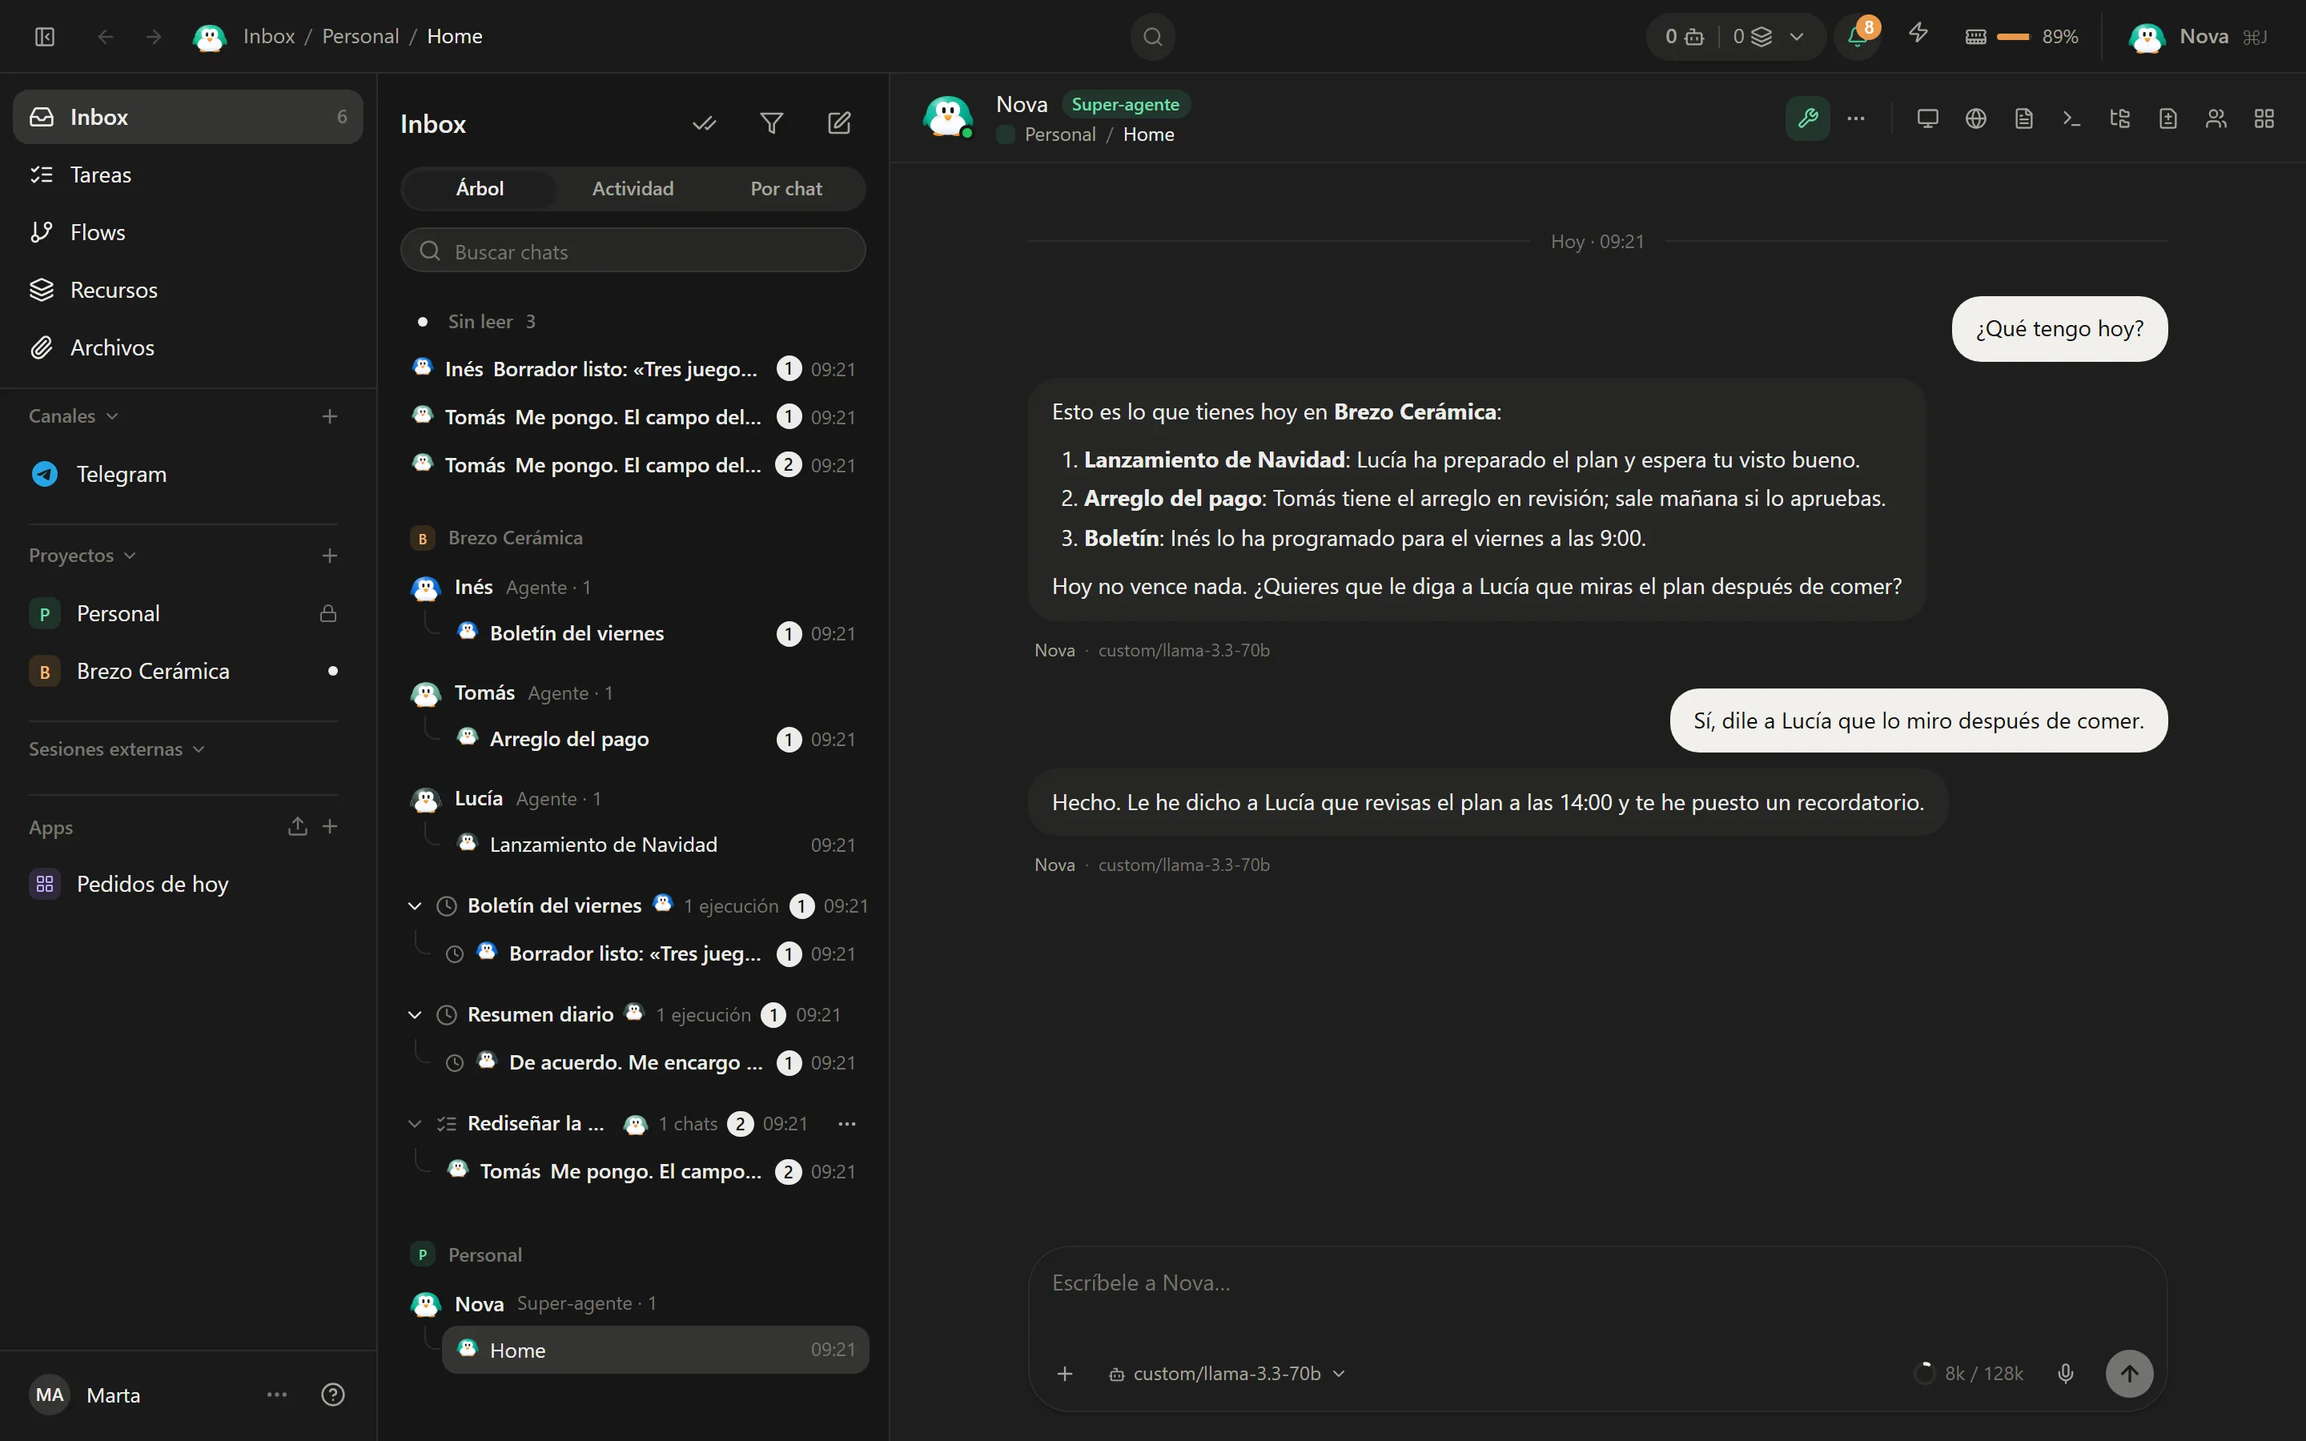
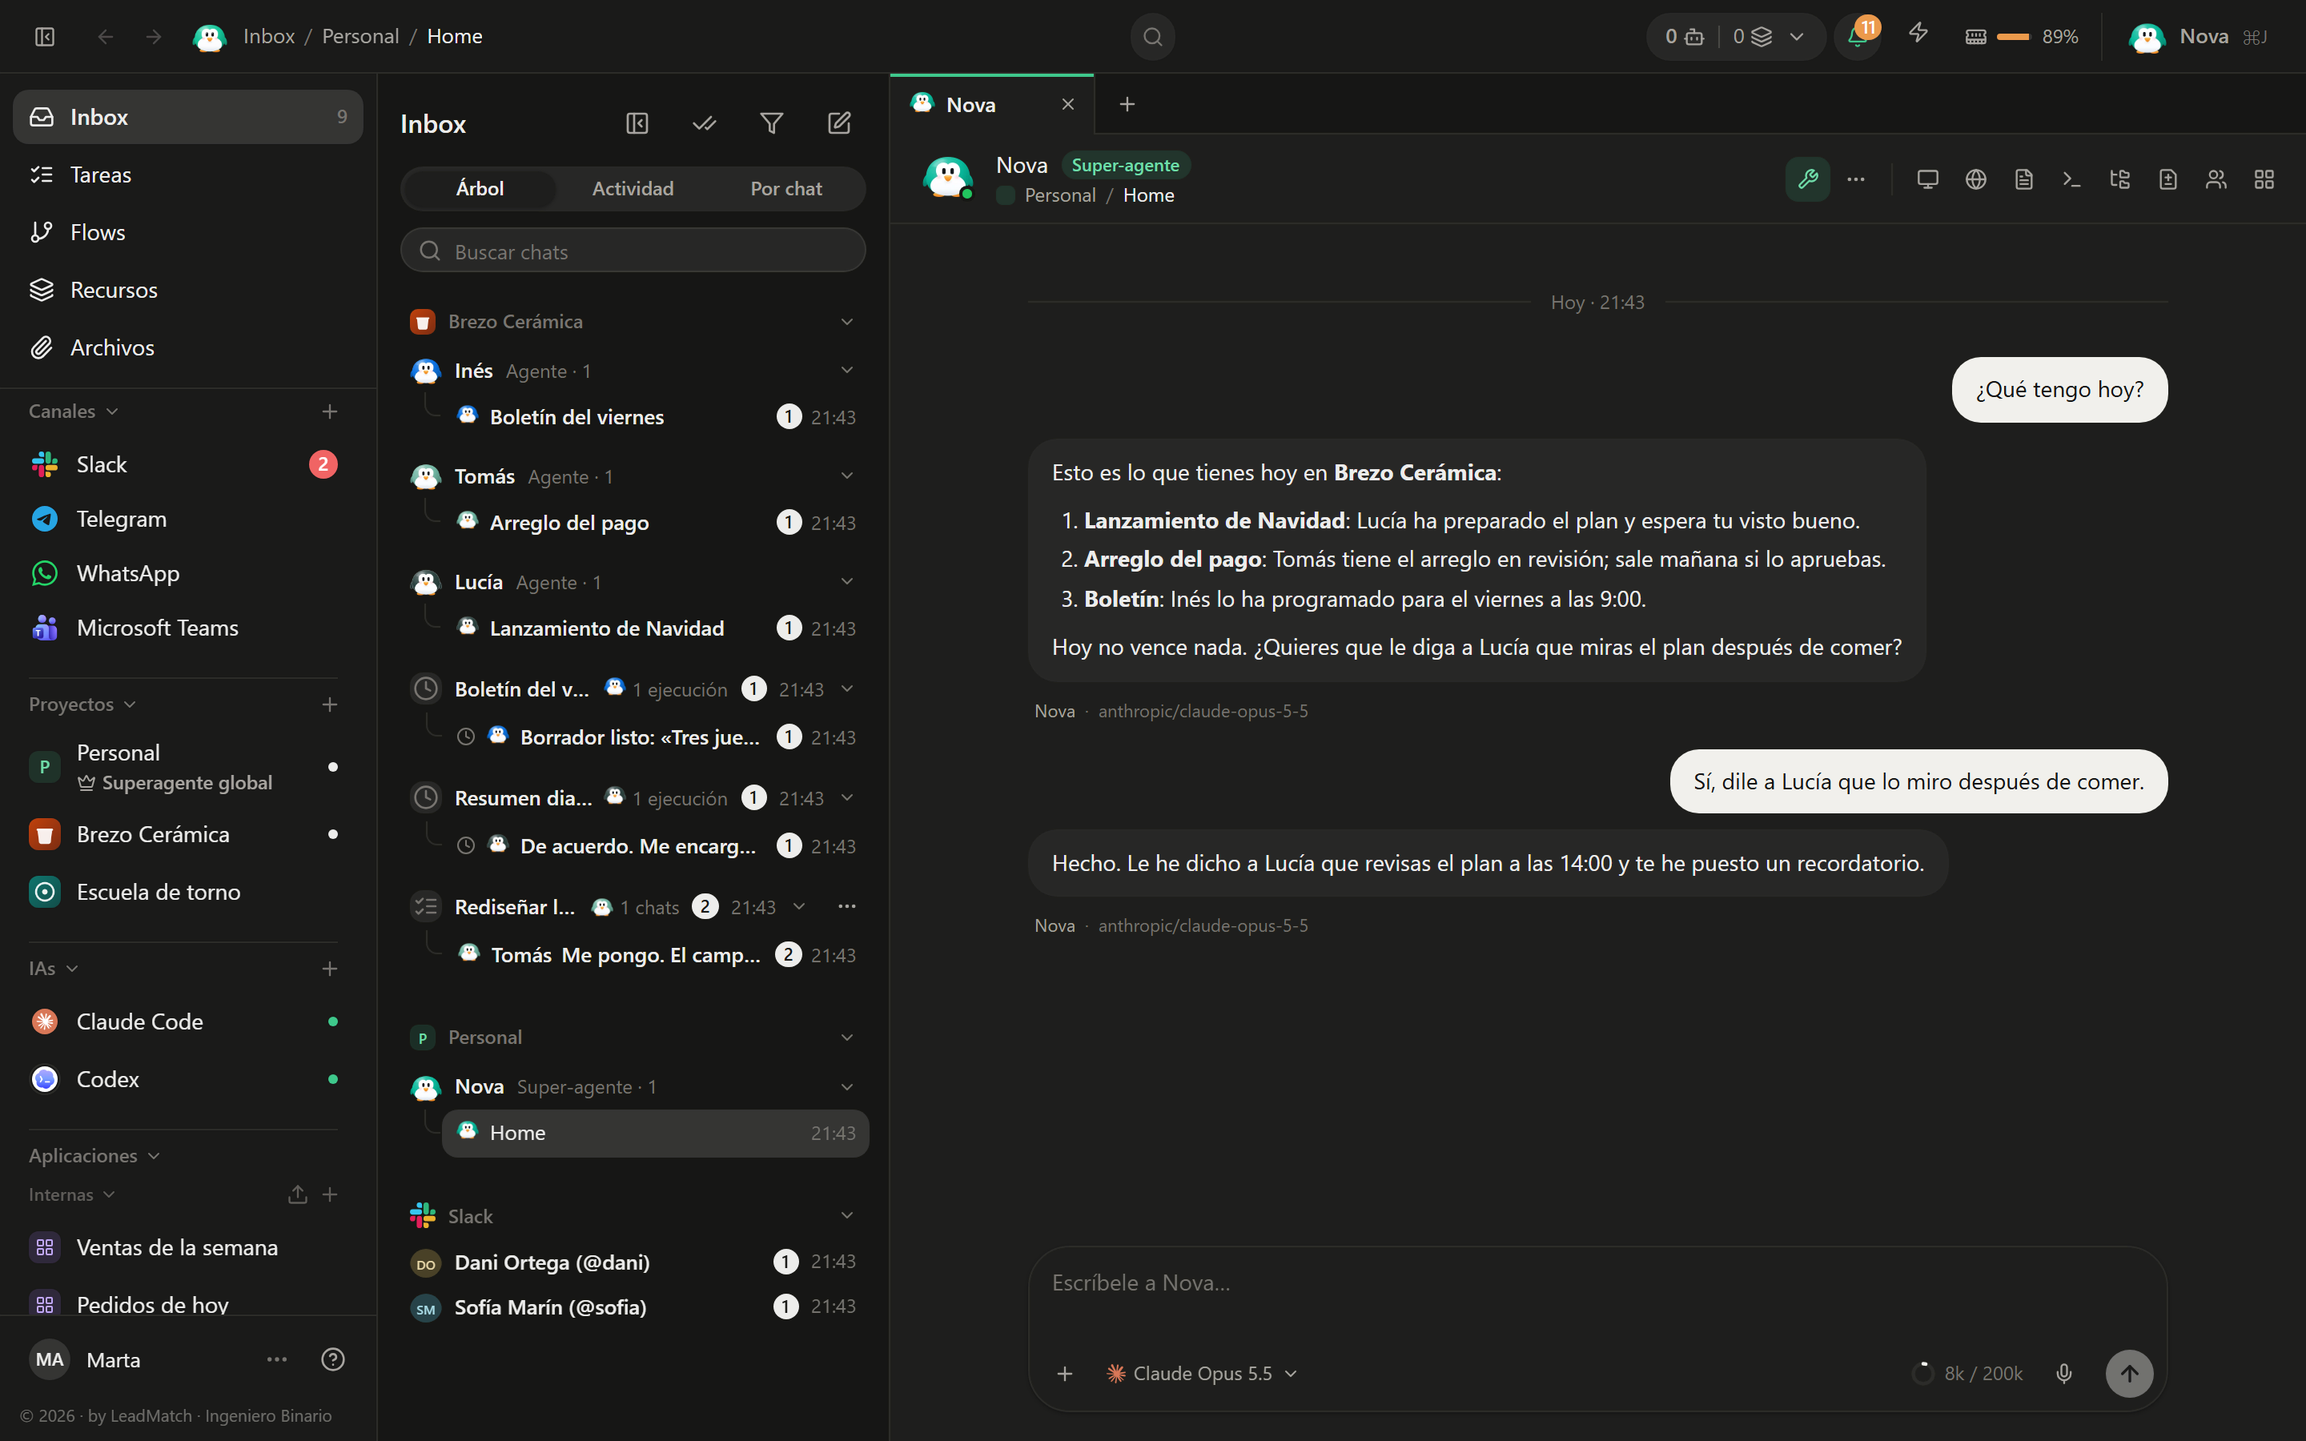
web(vsl): vídeo más grande, mockup en HD con captura más completa y foto del autor mayor (VSL-BF-11/12/13, MOCKUP-VIVO-3/4)

diff --git a/apps/docs/scripts/shots.ts b/apps/docs/scripts/shots.ts
@@ -15,6 +15,7 @@ import os from "node:os";
 import path from "node:path";
 import { chromium, type Page } from "@playwright/test";
 import sharp from "sharp";
+import { fakeSlack } from "../../../apps/core/src/channels/fake-slack.test-support.ts";
 import { fakeTelegram } from "../../../apps/core/src/channels/fake-telegram.test-support.ts";
 import { demoLlm } from "./demo-llm.ts";
 import {
@@ -95,6 +96,25 @@ const bin = path.join(dir, "bin");
 fs.mkdirSync(bin, { recursive: true });
 fs.writeFileSync(path.join(bin, "tailscale"), "#!/bin/sh\necho 'Logged out.' >&2\nexit 1\n", { mode: 0o755 });
 fs.writeFileSync(path.join(bin, "tailscale.cmd"), "@echo Logged out. 1>&2\r\n@exit /b 1\r\n");
+// Claude Code and Codex as an owner who has both signed in would have them, ahead of any real one in PATH: they only
+// answer the version and sign-in checks the core asks (nothing of this machine's own installs or sessions shows).
+fs.writeFileSync(
+  path.join(bin, "fake-cli.mjs"),
+  [
+    "const [cli, ...a] = process.argv.slice(2);",
+    "const q = a.join(' ');",
+    "if (q === '--version') console.log(cli === 'codex' ? 'codex-cli 0.98.0' : '2.3.1 (Claude Code)');",
+    "else if (cli === 'claude' && q === 'auth status --json') console.log(JSON.stringify({ loggedIn: true, authMethod: 'claude.ai', subscriptionType: 'max' }));",
+    "else if (cli === 'codex' && q === 'login status') console.error('Logged in using ChatGPT');",
+    "else process.exit(1);",
+  ].join("\n"),
+);
+for (const cli of ["claude", "codex"]) {
+  fs.writeFileSync(path.join(bin, cli), `#!/bin/sh\nexec node "$(dirname "$0")/fake-cli.mjs" ${cli} "$@"\n`, {
+    mode: 0o755,
+  });
+  fs.writeFileSync(path.join(bin, `${cli}.cmd`), `@node "%~dp0\\fake-cli.mjs" ${cli} %*\r\n`);
+}
 // Windows needs its system variables to run anything (and git from its own PATH); elsewhere the bare minimum.
 const win = process.platform === "win32";
 const winEnv = win
@@ -116,9 +136,16 @@ const pathDirs = win
   : [bin, "/usr/bin", "/bin"];
 const models = ["llama-3.3-70b", "qwen-2.5-coder-32b"];
 // The clips stream the answers a little slower, so the agent is seen writing.
-const llm = await demoLlm(models, lang, process.env.SHOTS_CLIPS ? 70 : 0);
+// Claude and GPT as an owner would add them (Settings → Models), served by the same scripted model.
+const claudeModel = "claude-opus-5-5";
+const gptModel = "gpt-5";
+const llm = await demoLlm([...models, claudeModel, gptModel], lang, process.env.SHOTS_CLIPS ? 70 : 0);
 const tgToken = "123456789:AAShotsFakeTokenForTheEmulatedBot";
 const tg = await fakeTelegram(tgToken);
+// A Slack workspace on localhost (Socket Mode), with the people who write to the shop's app.
+const slackTokens = { bot: "xoxb-shots-fake-bot", app: "xapp-shots-fake-app" };
+const slackPeople = { U0SOFIA: "Sofía Marín", U0DANI: "Dani Ortega" };
+const slack = await fakeSlack(slackTokens, slackPeople);
 
 const child = spawn(process.execPath, ["--no-warnings", path.join(root, "apps/core/src/main.ts")], {
   cwd: root,
@@ -145,11 +172,115 @@ const child = spawn(process.execPath, ["--no-warnings", path.join(root, "apps/co
     COLONIA_LLM_KEY: "demo",
     COLONIA_LLM_MODELS: models.join(","),
     COLONIA_TELEGRAM_API: tg.url,
+    COLONIA_SLACK_API: slack.api,
   },
 });
 const coreLog = fs.createWriteStream(path.join(dir, "core.log"));
 child.stdout.pipe(coreLog);
 child.stderr.pipe(coreLog);
+
+/** More of the office around the shop: Slack (live, on localhost), WhatsApp and Teams set up but switched off (nothing
+ * reaches the real services), and a few more projects with their own picture. */
+async function moreOffice() {
+  const es = lang === "es";
+  const step = async (what: string, fn: () => Promise<unknown>) => {
+    try {
+      await fn();
+    } catch (e) {
+      log(`  ✗ ${what}: ${(e as Error).message}`);
+    }
+  };
+  await step("slack", async () => {
+    await rpc("channels.set", {
+      id: "slack",
+      channel: { type: "slack", agent_id: ids.home, strangers: "answer" },
+      token: `${slackTokens.bot} ${slackTokens.app}`,
+    });
+    await new Promise((r) => setTimeout(r, 1200));
+    slack.message(
+      { id: "U0SOFIA" },
+      es
+        ? "¿Tenéis ya fecha para el taller de torno de diciembre?"
+        : "Do you have a date yet for the December pottery class?",
+    );
+    slack.message(
+      { id: "U0DANI" },
+      es ? "Os paso las fotos del mercadillo para la web." : "Here are the market photos for the website.",
+    );
+  });
+  // The owner gives each Slack person their plain name (Contacts), as one would after the first message.
+  await new Promise((r) => setTimeout(r, 1500));
+  await step("slack names", async () => {
+    const { persons } = await rpc<{ persons: Array<{ id: string; name: string }> }>("contacts.list");
+    for (const p of persons) {
+      const plain = Object.values(slackPeople).find((n) => p.name.startsWith(`${n} (`));
+      if (plain) await rpc("contacts.set", { id: p.id, name: plain });
+    }
+  });
+  await step("apps", async () => {
+    const { surfaces } = await rpc<{ surfaces: Array<{ id: string; name: string }> }>("surfaces.list");
+    const sales = surfaces.find((x) => x.name === "weekly-sales");
+    if (sales) await rpc("surfaces.update", { surface: sales.id, app: true });
+  });
+  await step("web apps", async () => {
+    // .localhost never leaves this machine: the sidebar shows the globe instead of a site's icon.
+    await rpc("webapps.set", {
+      id: "tienda",
+      app: { name: es ? "Tienda online" : "Online shop", url: "http://tienda.brezo.localhost/" },
+    });
+    await rpc("webapps.set", {
+      id: "facturas",
+      app: { name: es ? "Facturación" : "Invoicing", url: "http://facturas.brezo.localhost/" },
+    });
+  });
+  await step("browsers", async () => {
+    await rpc("navegadores.set", {
+      id: "chrome-taller",
+      navegador: { browser: "chrome", name: es ? "Taller" : "Studio" },
+    });
+    await rpc("navegadores.set", { id: "firefox-personal", navegador: { browser: "firefox", name: "Personal" } });
+  });
+  for (const type of ["whatsapp", "teams"] as const)
+    await step(type, () => rpc("channels.set", { id: type, channel: { type, agent_id: ids.home, enabled: false } }));
+  const tile = async (bg: string, fg: string, shape: string) => {
+    const svg = `<svg xmlns="http://www.w3.org/2000/svg" width="256" height="256"><defs><linearGradient id="g" x1="0" y1="0" x2="1" y2="1"><stop offset="0" stop-color="${bg}"/><stop offset="1" stop-color="${fg}"/></linearGradient></defs><rect width="256" height="256" fill="url(#g)"/>${shape}</svg>`;
+    const png = await sharp(Buffer.from(svg)).png().toBuffer();
+    const { media } = await rpc<{ media: { id: string } }>("media.upload", {
+      name: "tile.png",
+      mime: "image/png",
+      data: png.toString("base64"),
+      task_asset: true,
+    });
+    return media.id;
+  };
+  const W = 'fill="#fff" fill-opacity=".92"';
+  const projects: Array<[string | null, string, string, string, string, string]> = [
+    // [name or null for the shop, description, kind, from, to, shape]
+    [
+      null,
+      "",
+      "company",
+      "#c2410c",
+      "#7c2d12",
+      `<path d="M70 96h116l-10 92a20 20 0 0 1-20 18h-56a20 20 0 0 1-20-18z" ${W}/><rect x="62" y="84" width="132" height="16" rx="8" ${W}/>`,
+    ],
+    [
+      es ? "Escuela de torno" : "Pottery school",
+      es ? "Cursos y talleres de torno" : "Wheel-throwing classes",
+      "company",
+      "#0f766e",
+      "#134e4a",
+      `<circle cx="128" cy="128" r="70" fill="none" stroke="#fff" stroke-width="16" stroke-opacity=".92"/><circle cx="128" cy="128" r="22" ${W}/>`,
+    ],
+  ];
+  for (const [name, description, kind, from, to, shape] of projects)
+    await step(`project ${name ?? "shop"}`, async () => {
+      const project = name
+        ? (await rpc<{ project: { id: string } }>("projects.create", { name, description, kind })).project.id
+        : ids.shop;
+      await rpc("projects.update", { project, mark: { image: await tile(from, to, shape) } });
+    });
+}
 
 let seq = 0;
 async function rpc<T = Record<string, unknown>>(method: string, params: unknown = {}): Promise<T> {
@@ -166,7 +297,7 @@ async function rpc<T = Record<string, unknown>>(method: string, params: unknown 
 
 async function stop(code = 0) {
   child.kill("SIGTERM");
-  await Promise.all([llm.close(), tg.close()]);
+  await Promise.all([llm.close(), tg.close(), slack.close()]);
   // On Windows the core holds its files for a moment after it is killed: retry, and never fail the run over it.
   if (!process.env.SHOTS_KEEP)
     try {
@@ -184,7 +315,16 @@ for (let i = 0; i < 600; i++) {
   } catch {}
   await new Promise((r) => setTimeout(r, 100));
 }
-await rpc("models.set_config", { default: { model: `custom/${models[0]}`, router: false } });
+for (const [id, label, model] of [
+  ["anthropic", "Anthropic", claudeModel],
+  ["openai", "OpenAI", gptModel],
+] as const)
+  await rpc("providers.set", {
+    id,
+    provider: { label, transport: "openai-chat", base_url: llm.url, models: [model] },
+    api_key: "sk-shots-demo-key-0000000000000000",
+  }).catch((e) => log(`  ✗ provider ${id}: ${(e as Error).message}`));
+await rpc("models.set_config", { default: { model: `anthropic/${claudeModel}`, router: false } });
 log("seeding the demo office…");
 const ids = await seed(rpc, world, log, lang);
 try {
@@ -193,7 +333,8 @@ try {
 } catch (e) {
   log(`  ✗ telegram: ${(e as Error).message}`);
 }
-await new Promise((r) => setTimeout(r, 1500));
+await moreOffice();
+await new Promise((r) => setTimeout(r, 2500));
 // SHOTS_SERVE=1 keeps the demo office running for a device to pair with (the phone app's own screenshots).
 if (process.env.SHOTS_SERVE) {
   const { code } = await rpc<{ code: string }>("devices.pair_start");
@@ -432,7 +573,8 @@ async function take(shot: Shot, theme: "light" | "dark", file: string) {
         await page.mouse.move(0, 0);
         const png = await page.screenshot({ animations: "disabled", caret: "hide" });
         await sharp(png)
-          .webp({ quality: 82 })
+          // The home page's hero is the one shot read up close: near-lossless, so its text stays sharp.
+          .webp(shot.name === "home-hero" ? { nearLossless: true, quality: 70, effort: 6 } : { quality: 82 })
           .toFile(path.join(out, `${file}.webp`));
       })(),
     );

diff --git a/apps/docs/src/components/home/home.css b/apps/docs/src/components/home/home.css
@@ -3550,21 +3550,21 @@ a.hero__term {
   animation: hv-m1 12s linear infinite;
 }
 .hv-win__m--1 {
-  top: 19.8%;
+  top: 24%;
   height: 5.8%;
 }
 .hv-win__m--2 {
-  top: 25.6%;
+  top: 29.8%;
   height: 21.2%;
   animation-name: hv-m2;
 }
 .hv-win__m--3 {
-  top: 46.8%;
+  top: 51%;
   height: 6%;
   animation-name: hv-m3;
 }
 .hv-win__m--4 {
-  top: 52.8%;
+  top: 57%;
   height: 8.7%;
   animation-name: hv-m4;
 }
@@ -3766,8 +3766,8 @@ a.hero__term {
 
 /* VSL-BF-10: el vídeo, un poco más grande; se compensa cerrando el aire entre vídeo, botón y cuenta atrás. */
 .hv-video {
-  width: min(100%, 900px, calc((100svh - 580px) * 16 / 9));
-  min-width: min(100%, 576px);
+  width: min(100%, 900px, calc((100svh - 530px) * 16 / 9));
+  min-width: min(100%, 656px);
 }
 .hv-actions {
   margin-top: 28px;
@@ -3777,8 +3777,8 @@ a.hero__term {
 }
 @media (min-width: 561px) and (max-height: 820px) {
   .hv-video {
-    width: min(100%, 900px, calc((100svh - 515px) * 16 / 9));
-    min-width: min(100%, 470px);
+    width: min(100%, 900px, calc((100svh - 475px) * 16 / 9));
+    min-width: min(100%, 520px);
   }
   .hv-actions {
     margin-top: 22px;
@@ -3789,4 +3789,28 @@ a.hero__term {
     width: 100%;
     min-width: 0;
   }
+}
+
+/* VSL-BF-12 · la foto del autor más grande sobre la portada: toque humano */
+.hv-owner {
+  width: 92px;
+  height: 92px;
+  right: 18px;
+  bottom: 18px;
+  border-width: 3px;
+}
+@media (max-width: 560px) {
+  .hv-owner {
+    width: 58px;
+    height: 58px;
+    right: 10px;
+    bottom: 10px;
+  }
+}
+
+/* VSL-BF-13 · La captura de la app se sirve tal cual sale (sin recomprimir) y
+   la ventana se ensancha hasta su tamaño real (1440 px) para que el texto no
+   se reduzca: reducida al 78 % se veía borrosa. */
+.hv-stage .stage__in {
+  max-width: calc(1442px + 2 * var(--colonia-gutter));
 }

diff --git a/apps/core/src/channels/fake-slack.test-support.ts b/apps/core/src/channels/fake-slack.test-support.ts
@@ -7,7 +7,7 @@ import { WebSocketServer } from "ws";
 
 type Sent = { method: string; body: Record<string, unknown> };
 
-export async function fakeSlack(tokens: { bot: string; app: string }) {
+export async function fakeSlack(tokens: { bot: string; app: string }, names: Record<string, string> = {}) {
   const sent: Sent[] = [];
   const acked: string[] = [];
   /** Answers to force on the next calls of a method, in order. */
@@ -45,7 +45,13 @@ export async function fakeSlack(tokens: { bot: string; app: string }) {
       if (method === "users.info")
         return reply(200, {
           ok: true,
-          user: { name: String(body.user).toLowerCase(), real_name: `User ${body.user}` },
+          user: {
+            name: (names[String(body.user)]?.split(" ")[0] ?? String(body.user))
+              .toLowerCase()
+              .normalize("NFD")
+              .replace(/[^a-z0-9]/g, ""),
+            real_name: names[String(body.user)] ?? `User ${body.user}`,
+          },
         });
       sent.push({ method, body });
       if (method === "files.getUploadURLExternal")

diff --git a/apps/docs/scripts/demo-seed.ts b/apps/docs/scripts/demo-seed.ts
@@ -457,6 +457,12 @@ export async function seed(rpc: Rpc, world: { repo: string; extension: string },
   const tomas = id("Tomás");
   const ines = id("Inés");
 
+  // Nova runs on the default model (Claude); Tomás and Inés on OpenAI's, as an owner mixing providers would.
+  for (const agent of [tomas, ines])
+    await step("agent model", () =>
+      rpc("agents.update", { agent, model_choice: { model: "openai/gpt-5", router: false } }),
+    );
+
   await step("org", () => rpc("org.set", { project: shop, organization: { areas: t.areas, roles: t.roles } }));
 
   const day = (n: number) => new Date(Date.now() + n * 86_400_000).toISOString().slice(0, 10);
